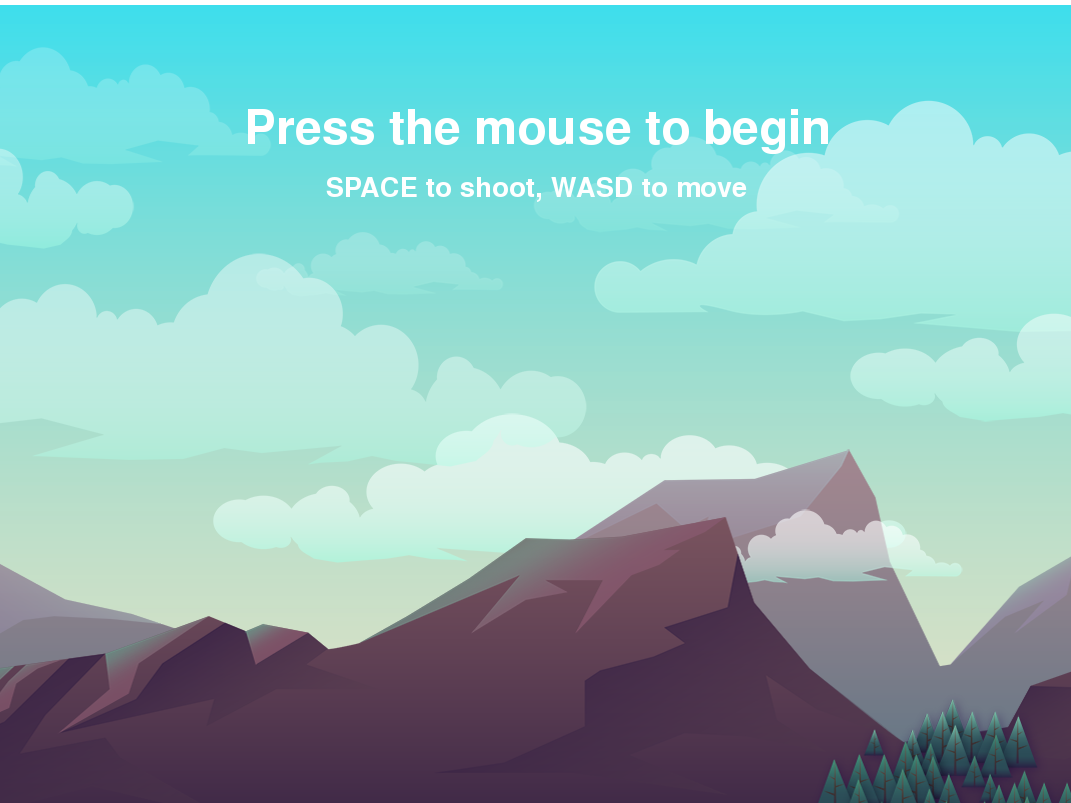
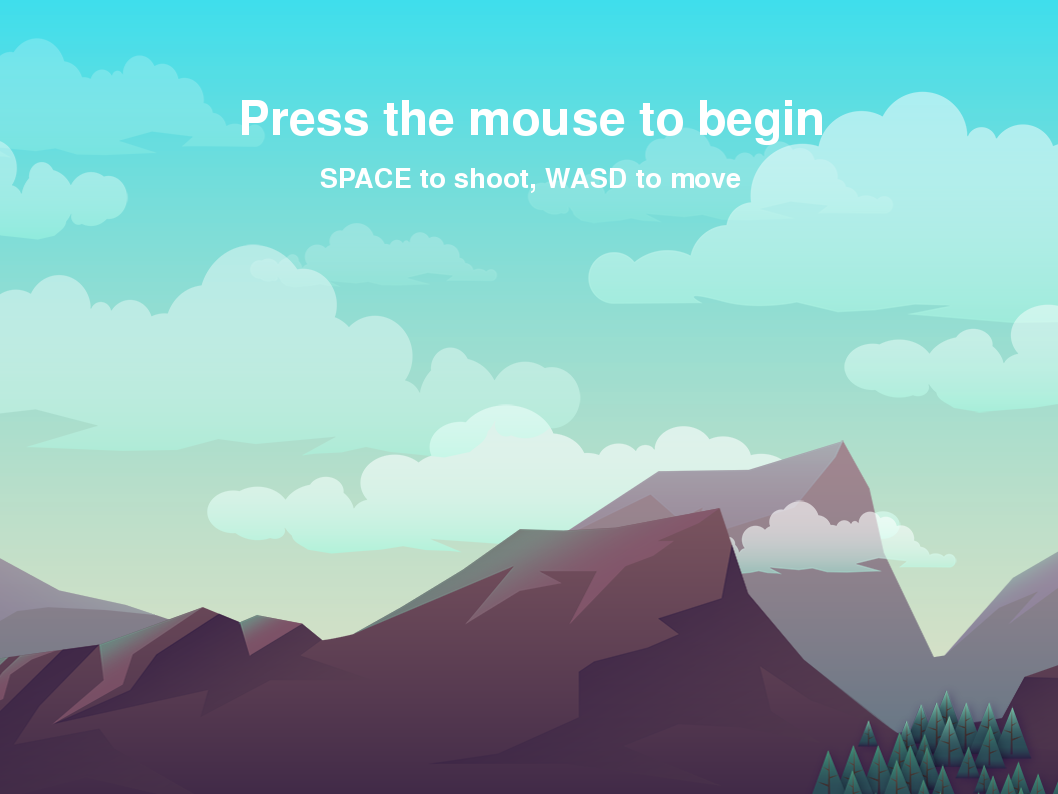
changed game pic to jpg

diff --git a/index.html b/index.html
@@ -150,7 +150,7 @@
                                 <div class="portfolio-hover">
                                     <div class="portfolio-hover-content"><i class="fas fa-plus fa-3x"></i></div>
                                 </div>
-                                <img class="img-fluid" src="assets/img/games/scroller_menu_4_3.PNG" alt="" />
+                                <img class="img-fluid" src="assets/img/games/scroller_menu_4_3.jpg" alt="" />
                             </a>
                             <div class="portfolio-caption">
                                 <div class="portfolio-caption-heading">Games</div>
